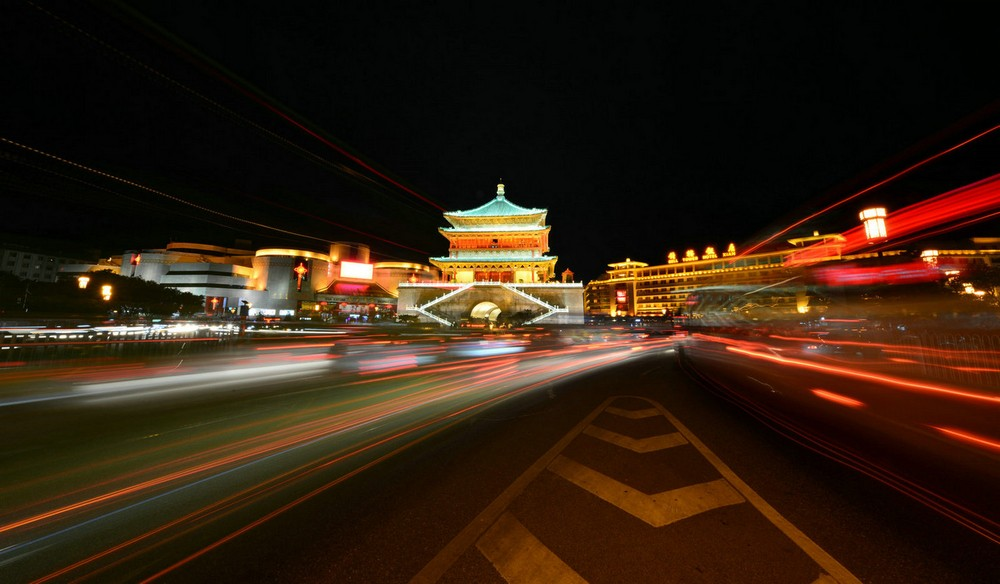
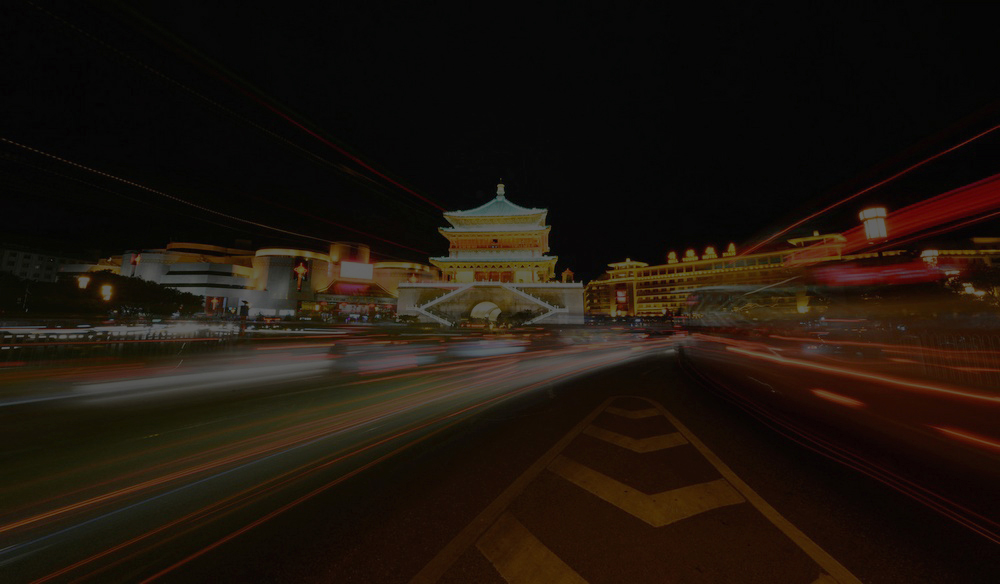
0.1

diff --git a/css/main.css b/css/main.css
@@ -25,85 +25,82 @@ input,select,textarea{
 	zoom:1;
 }
 /*  头部不变部分 */
-#de-top{
+#header{
 	width: 100%;
-	height: 50px;
-	background-color: #F5F5F5;
 	position: fixed;
-	z-index:99;
-	
-}
-.de-image img{
-	opacity: 0.9;
-	-webkit-opacity:0.9;
-	-moz-opacity:0.9;
-	-o-opacity:0.9;
-	-ms-opacity:0.9;
-	margin:50px 0;
+	top:0;
+	z-index: -10;
+	height: 450px;
 
+}
+#header>p{
+	display: block;
+	font-family: "Microsoft YaHei";
+	font-size: 4rem;
+	z-index:10;
+	color:white;
+    position: absolute;
+    top: 45%;
+    left: 24%;
+    text-shadow: 2px 2px #D3D3D3;
+}
+#header span{
+	position: absolute;
+	font-size: 1rem;
+	z-index:10;
+	color:white;
+	bottom: 20%;
+	right: 20%;
+
+}
+#header img {
 	width: 100%;
-	height: 500px;
+	height: 450px;
 }
-.de-nav{
-	width: 20%;
-	margin: 0 40%;
-	cursor: pointer;
-}
-.de-nav a{
-	line-height: 50px;
-	padding: 0 17%;
-	color: black;
-}
-.de-nav a:hover{
-	color: white;
-	background-color: black;
-}
-.nav-l{
-	float: left;
-}
-.nav-r{
-	float: right;
-}
+/*header不变部分结束*/
+/**/
 
-/* 头部响应式*/
-@media only screen and (max-width: 630px)
-{
-	.de-image img{
-		height: 240px;
-          
-	}
-	.de-nav{
-		width: 25%;
-		
-	}
-	.de-nav a{
-		line-height: 50px;
-        padding: 0;
-	}
-	.de-content{
-  margin: 0 5%;
+/* dynamic内容部分*/
+.je-content{
+width: 100%;
+margin-top:450px;
+margin-bottom: 200px;
+background: white;
+overflow: hidden;
+height: 700px;
 }
+.home{
+	margin: 50px;
 }
-
-/* 内容部分样式 */
-.de-content{
-  margin:0 5%;
+.home .h-h1{
+	border-bottom: 2px solid black;
+	margin-bottom:30px;
 }
-.home .page-heading{
-   border-bottom: 2px solid black;
-   font-size: 1.2em;
-   margin:0 0 20px 0 ; 
-}
-.post-div h2{
+.post-list h2 {
 	display: inline-block;
 }
-.page-heading{
+.post-list li{
+	margin: 20px;
+	border-bottom: 1px solid #DCDCDC;
+}
+.post-list li span{
+	float: right;
 
 }
-.post-list{
+/*尾部*/
+#footer{
+	width: 100%;
+	position: fixed;
+	bottom: 0;
+	height: 200px;
+	background-color: gray;
+	z-index:-20;
+	overflow: hidden;
 }
-.post-meta{
-	
+
+#footer p{
+	text-align: center;
+
 }
 
 

diff --git a/_layouts/default.html b/_layouts/default.html
@@ -1,38 +1,30 @@
 <!DOCTYPE html>
 <html>
 <head>
-	<title>Young and free {{ page.title }}</title>
-	<meta charset="utf-8">
-	<meta name="viewport" content="width=device-width,initial-scale=1">
-	<meta name="Keywords" content="个人博客 前端开发 移动端开发 技术分享">
-	<meta name="Description" content="浅白的个人博客">
-	<link rel="stylesheet" type="text/css" href="/../css/main.css">
-	<link rel="shortcut icon" href="/../image/mine.ico"> 
-	
+    <title>Young and free {{ page.title }}</title>
+    <meta charset="utf-8">
+    <meta name="viewport" content="width=device-width,initial-scale=1">
+    <meta name="Keywords" content="个人博客 前端开发 移动端开发 技术分享">
+    <meta name="Description" content="浅白的个人博客">
+    <link rel="stylesheet" type="text/css" href="/../css/main.css">
+    <link rel="shortcut icon" href="/../image/mine.ico">
 </head>
+
 <body>
-<div>
- <div id="header">
- 	<div id="de-top">
- 		  <div class="de-nav">
- 		 <a class="nav-l" href="/../index.html">首页</a>
- 		 <a class="nav-r" href="/../about.html">关于我</a>
- 	      </div>
- 	</div>
-
- 	<div class="de-image">
- 		<img id="bgimg" src="">
- 	</div>
- </div>	
-
-
- <div class="de-content">
-	
-  {{content}}
-
- </div>
-
-</div>
-<script type="text/javascript" src="/../js/main.js"></script>
+    <div>
+        <div id="header">
+            <p>To see a bigger world</p>
+            <span> ——欢迎来到Ga的个人小站</span>
+            <img src="/../image/image2.jpg">
+        </div>
+        <div class="je-content">
+            {{content}}
+        </div>
+        <div id="footer">
+            <p>2016 浅白 @copyright</p>
+        </div>
+    </div>
+    <script type="text/javascript" src="/../js/main.js"></script>
 </body>
+
 </html>

diff --git a/js/main.js b/js/main.js
@@ -1,17 +1,5 @@
 var doc = document;
-function showboxshadow() {
-    var navbar = doc.getElementById('de-top');
-    window.addEventListener("scroll", function() {
-        var boxOntop = document.documentElement.scrollTop || document.body.scrollTop;
-        if (boxOntop == 0) {
-            navbar.style.boxShadow = "none";
-        } else {
-            navbar.style.boxShadow = "0px 2px 10px #888888";
-            
-        }
 
-    });
-}
 
 function toTop() {
     var timer = null;
@@ -49,16 +37,8 @@ function getrandom(){
 	
 	var wan=Math.floor(Math.random()*10);
 	var imgarray=[1,2,3,4,5,6,7,8,9];
-	var img=document.getElementById("bgimg");
-	if(wan>=0&&wan<=8)
-    {
-	img.setAttribute("src","/../image/image"+imgarray[wan]+".jpg");
-  }
-     else
-     {
-     	wan=5;
-     	img.setAttribute("src","/../image/image"+imgarray[wan]+".jpg");
-     }
+	var img=document.getElementById("header");
+
     
 }
 

diff --git a/index.html b/index.html
@@ -3,13 +3,15 @@ layout: default
 ---
 
 <div class="home">
-
-  <div><h1 class="page-heading" id="css">文章列表</h1></div>
+ <div class="h-h1">
+  <p class="page-heading" >文章列表</p>
+  </div>
 
 
   <ul class="post-list">
+  <div class="post-div">
     {% for post in site.posts %}
-    <div class="post-div">  <li><h2>
+     <li><h2>
           <a class="post-link" href="{{ post.url | prepend: site.baseurl }}">{{ post.title | escape }}</a>
         </h2>
         <span class="post-meta">{{ post.date | date: "%b %-d, %Y" }}</span>

diff --git a/_layouts/post.html b/_layouts/post.html
@@ -1,8 +1,8 @@
----
+--- 
 layout: default
 ---
 <div class='post'>
-  <span class='date'>{{page.date | date_to_string}}</span>
-  <h1><a href='{{page.url}}'>{{page.title}}</a></h1>
-  <div class='body'>{{ content }}</div>
+    <span class='date'>{{page.date | date_to_string}}</span>
+    <h1><a href='{{page.url}}'>{{page.title}}</a></h1>
+    <div class='body'>{{ content }}</div>
 </div>
